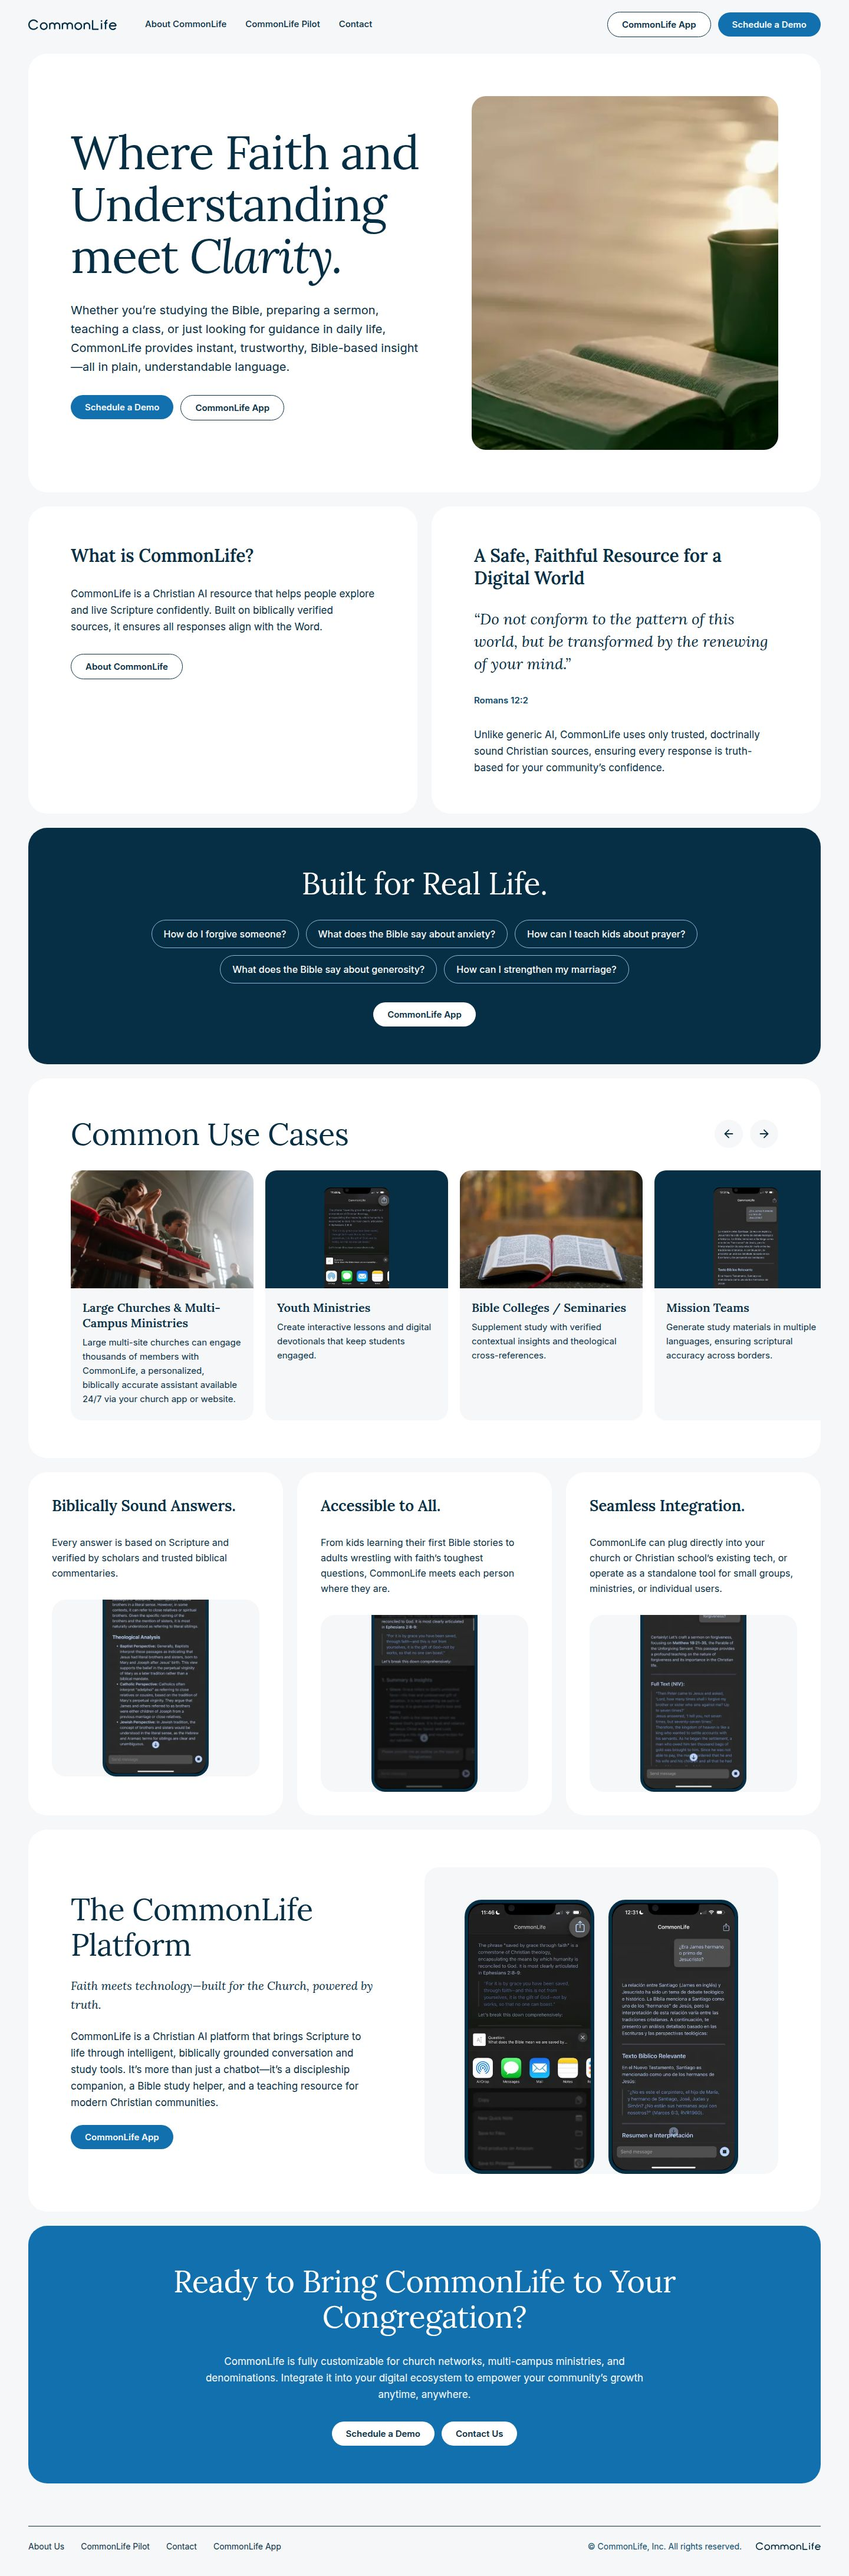
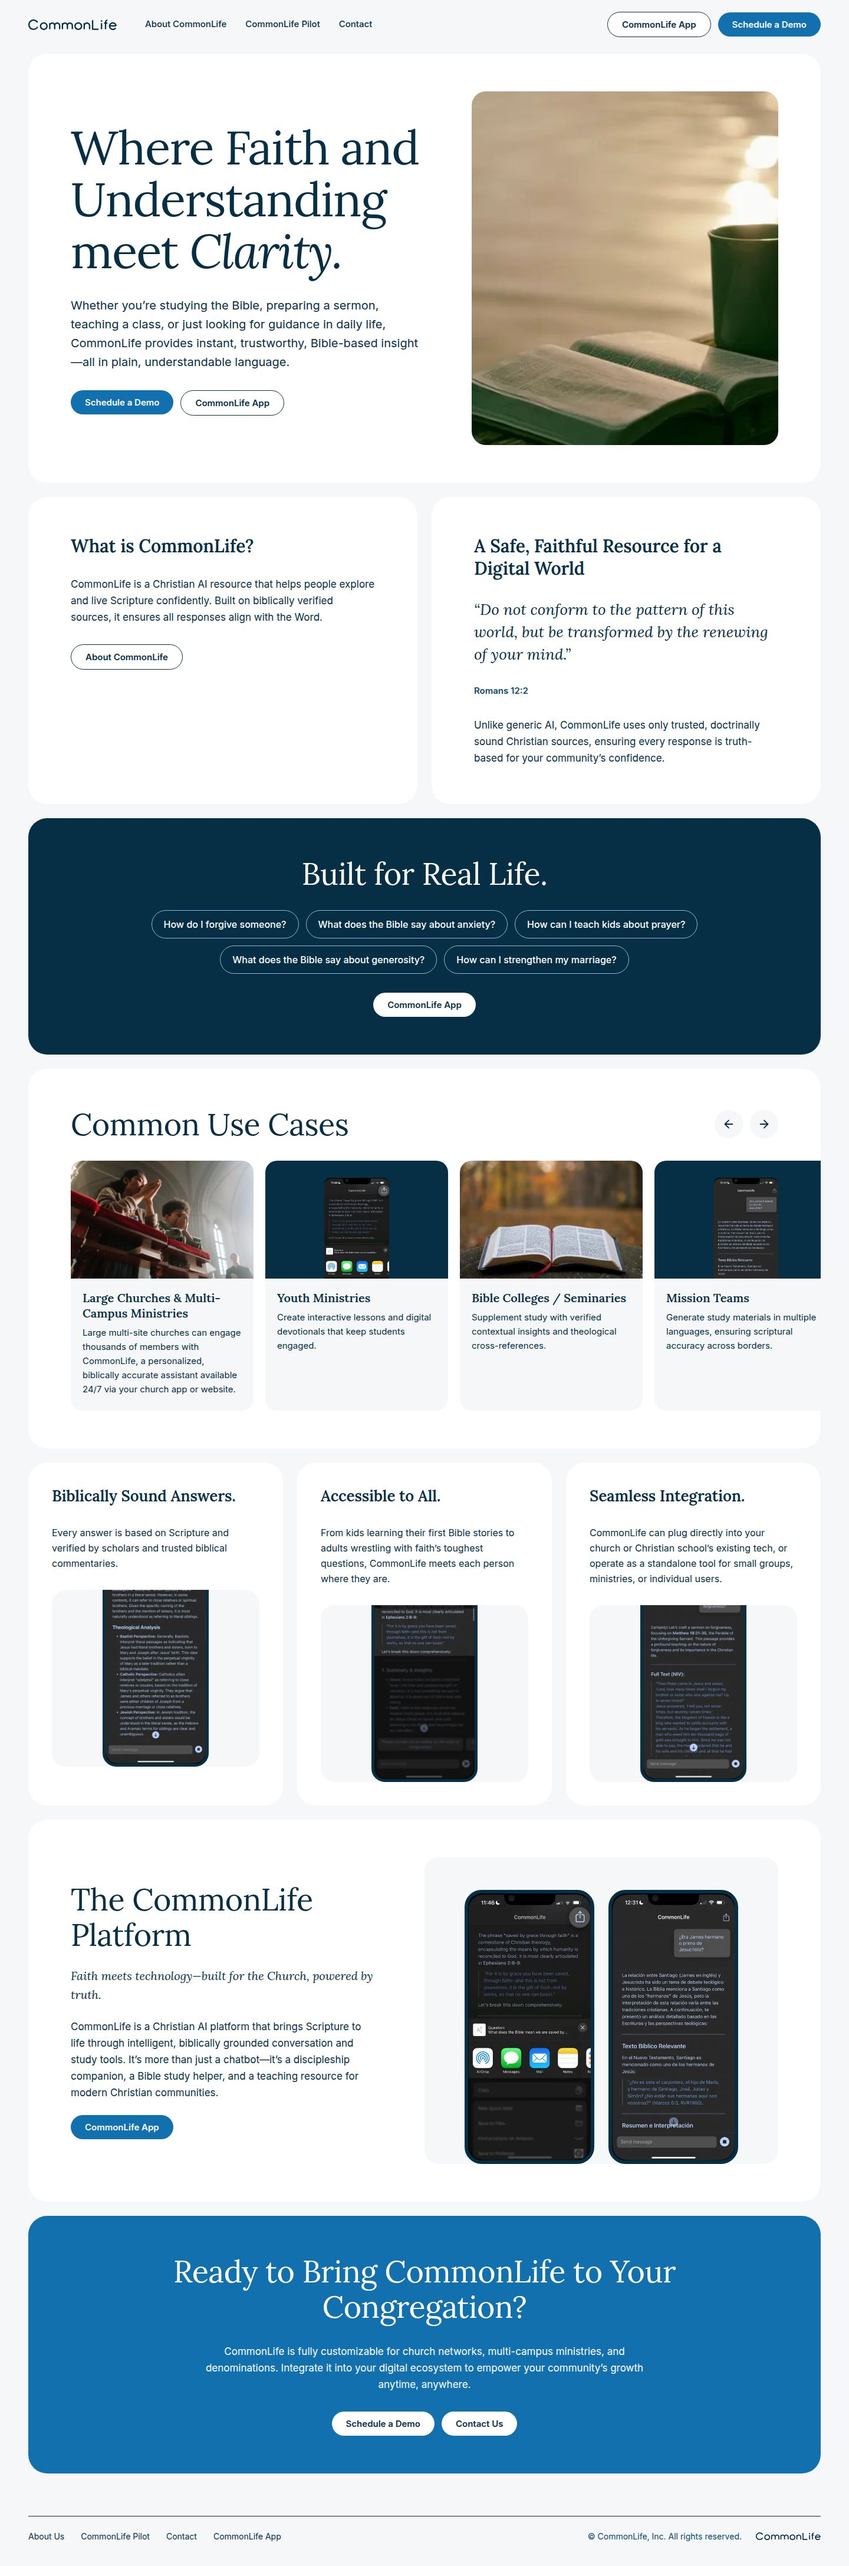
Set the home hero tile to 72 by 64 padding at desktop.
The other desktop tiles already used that padding. This matches the 1180px desktop scale on the first home tile as well.

diff --git a/app/page.tsx b/app/page.tsx
@@ -44,7 +44,7 @@ const features = [
 export default function HomePage() {
   return (
     <SiteShell>
-      <section className="rounded-3xl bg-cl-white px-6 py-8 md:rounded-[28px] md:p-12 desktop:rounded-[32px] desktop:p-[72px]">
+      <section className="rounded-3xl bg-cl-white px-6 py-8 md:rounded-[28px] md:p-12 desktop:rounded-[32px] desktop:px-[72px] desktop:py-16">
         <div className="flex flex-col gap-7 desktop:flex-row desktop:items-center desktop:gap-20">
           <div className="flex flex-col gap-8 desktop:w-[600px] desktop:shrink-0">
             <h1 className="font-lora text-[42px] leading-[48px] tracking-[-0.02em] md:text-[60px] md:leading-[68px] desktop:text-[80px] desktop:leading-[88px]">
